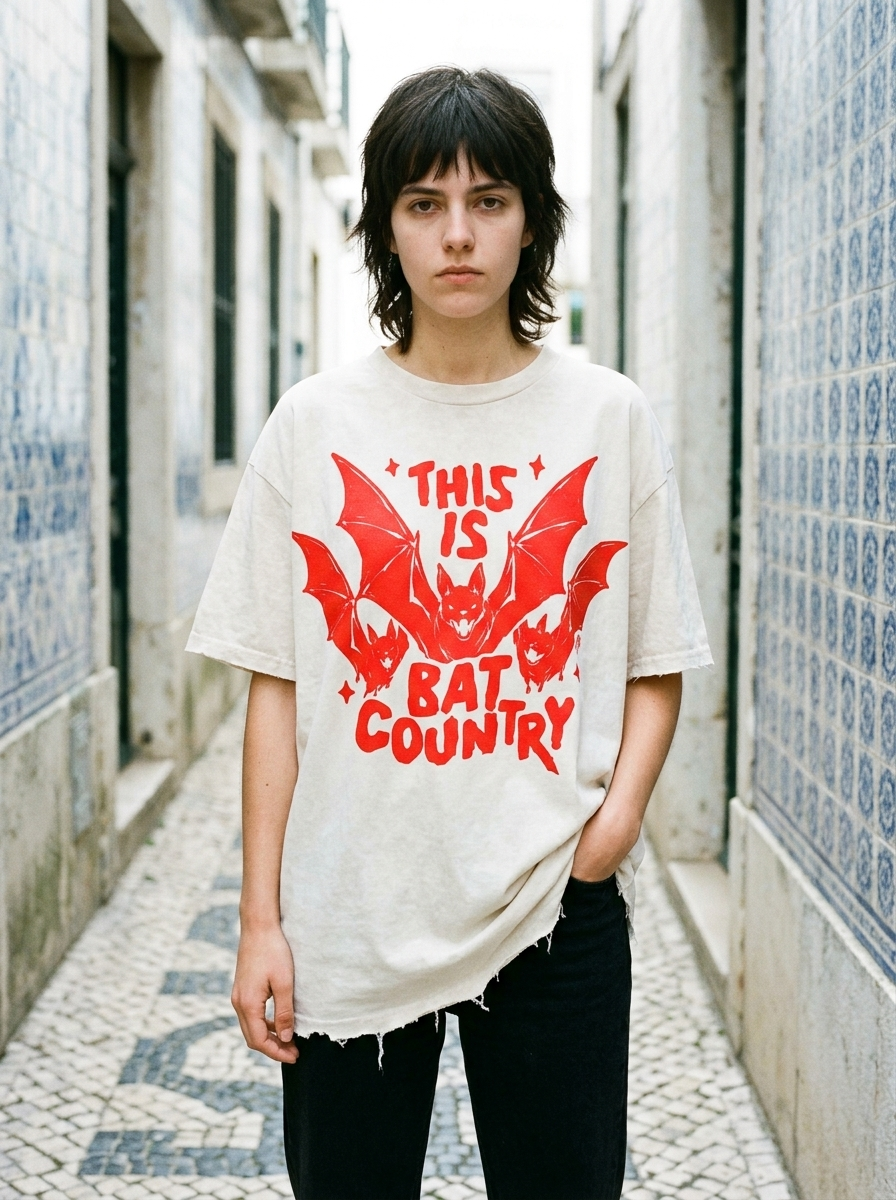
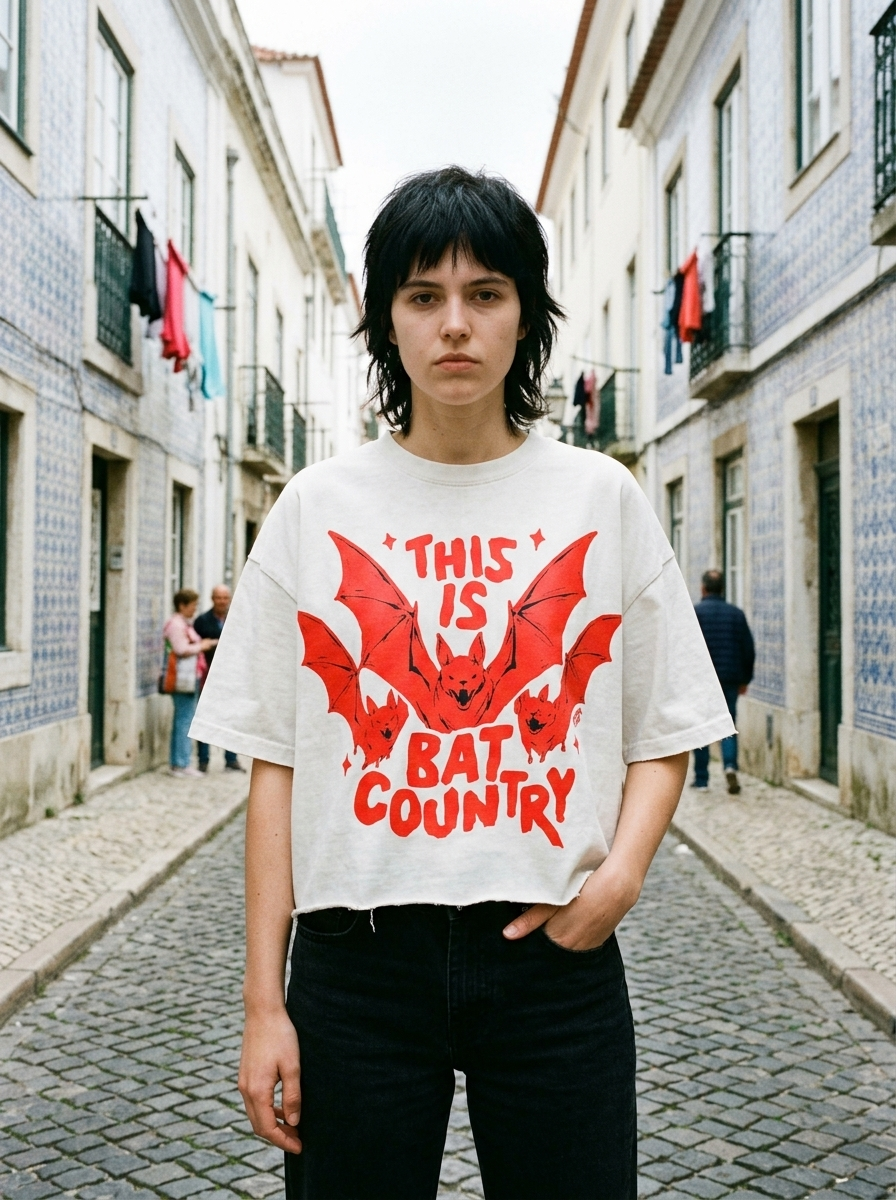
Fix the five tees' size charts, and reshoot the white mockups boxy
SIZE CHARTS WERE SILENTLY LOST. They are keyed by Shopify product id, and
Tapstitch added Washed White by creating new products rather than adding an
option, so every id changed. b094f6e repointed the catalogue but not the
charts, and all ten raw-hem tee pages went live showing no measurements at
all — on the one garment where "does it run big" is the only question a
buyer has. Re-keyed to the new ids; the figures are unchanged because the
blank is.

shopify-health.mjs now loads size-charts.ts and fails on any entry without
one, so this cannot go unnoticed again. It passed clean through the whole
bug because it never looked.

Mockups reshot. The first set read as tee-dresses: after the crop-top
failure I had written "hangs well past the waistband, hem low on the hip"
into every prompt and over-corrected straight past the actual cut. Boxy
means wide AND short — hem finishing at the belt line, which is what these
now show.

diff --git a/src/lib/size-charts.ts b/src/lib/size-charts.ts
@@ -93,13 +93,20 @@ export const SIZE_CHARTS: Record<string, SizeChart> = {
     ],
   },
   /* The five tees — Tapstitch "Snow Wash Raw-Hem Boxy T-shirt", item RT0058,
-     340gsm, in Washed Cement Gray. These are the original blank's own
-     figures, restored when the colour change brought RT0058 back; the shirt
-     is unchanged apart from the dye, so the measurements are too.
+     340gsm, now carrying Washed Cement Gray AND Washed White on one product
+     each. One chart serves both colourways because it is one garment in two
+     dyes.
+
+     KEYED BY SHOPIFY PRODUCT ID, which is a trap: when Tapstitch added white
+     it did so by creating NEW products rather than adding an option, so every
+     id here changed and the five tees silently lost their size charts until
+     these keys were repointed. If a product id ever changes again, this file
+     has to move with it. shopify-health.mjs now fails on an entry with no
+     chart so it cannot go unnoticed a second time.
 
      Back to four rows: this blank stops at XL. The 240gsm blank it briefly
      moved to reached 2XL, and that size went away again with it. */
-  "15975474004299": {
+  "15983648538955": {
     rows: [
       { size: "S", length: 65, shoulder: 57, chest: 61, sleeve: 25.5 },
       { size: "M", length: 67, shoulder: 59, chest: 63, sleeve: 26.5 },
@@ -107,7 +114,7 @@ export const SIZE_CHARTS: Record<string, SizeChart> = {
       { size: "XL", length: 71, shoulder: 63, chest: 67, sleeve: 28.5 },
     ],
   },
-  "15975475216715": {
+  "15983656108363": {
     rows: [
       { size: "S", length: 65, shoulder: 57, chest: 61, sleeve: 25.5 },
       { size: "M", length: 67, shoulder: 59, chest: 63, sleeve: 26.5 },
@@ -115,7 +122,7 @@ export const SIZE_CHARTS: Record<string, SizeChart> = {
       { size: "XL", length: 71, shoulder: 63, chest: 67, sleeve: 28.5 },
     ],
   },
-  "15975477739851": {
+  "15983651029323": {
     rows: [
       { size: "S", length: 65, shoulder: 57, chest: 61, sleeve: 25.5 },
       { size: "M", length: 67, shoulder: 59, chest: 63, sleeve: 26.5 },
@@ -123,7 +130,7 @@ export const SIZE_CHARTS: Record<string, SizeChart> = {
       { size: "XL", length: 71, shoulder: 63, chest: 67, sleeve: 28.5 },
     ],
   },
-  "15975478788427": {
+  "15983638184267": {
     rows: [
       { size: "S", length: 65, shoulder: 57, chest: 61, sleeve: 25.5 },
       { size: "M", length: 67, shoulder: 59, chest: 63, sleeve: 26.5 },
@@ -131,7 +138,7 @@ export const SIZE_CHARTS: Record<string, SizeChart> = {
       { size: "XL", length: 71, shoulder: 63, chest: 67, sleeve: 28.5 },
     ],
   },
-  "15975479345483": {
+  "15983643132235": {
     rows: [
       { size: "S", length: 65, shoulder: 57, chest: 61, sleeve: 25.5 },
       { size: "M", length: 67, shoulder: 59, chest: 63, sleeve: 26.5 },
